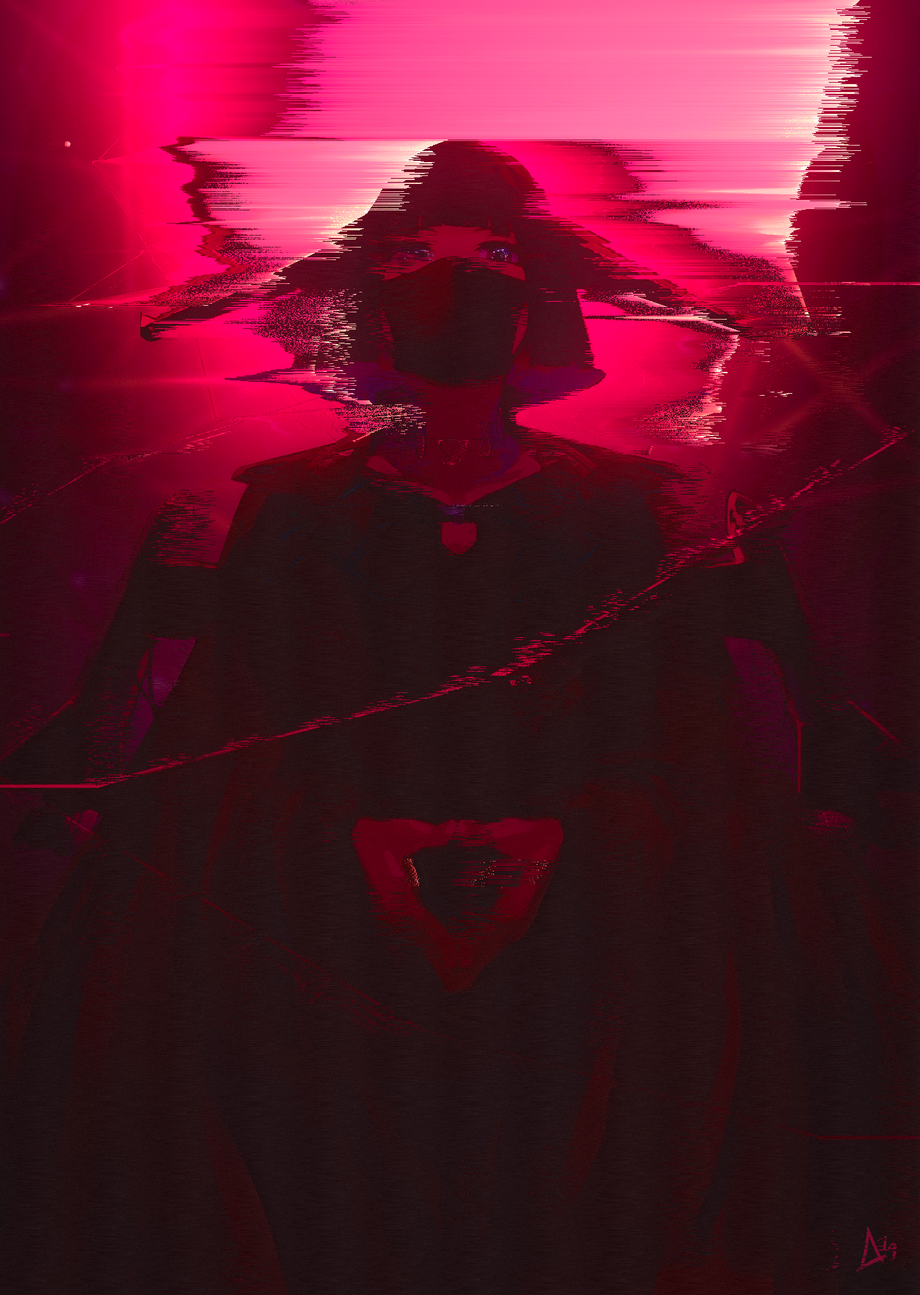
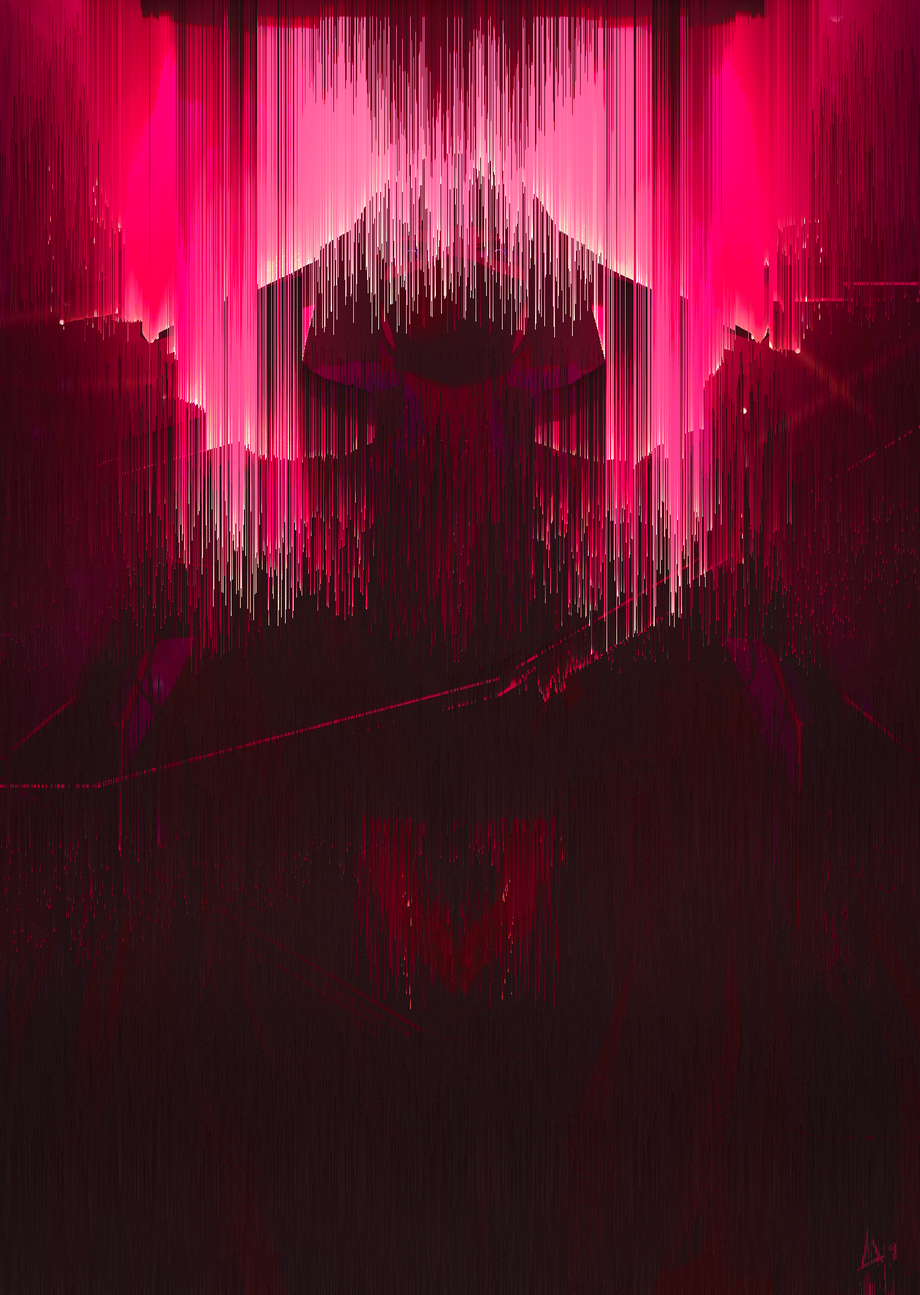
Updated 0018

diff --git a/examples/0018/ex0018.py b/examples/0018/ex0018.py
@@ -13,8 +13,8 @@ import logging
 
 intervalGenerator0 = pyglitch.PixelFunctionIntervalGenerator(
     pyglitch.HuePixelFunction(),
-    lo=0.9,
-    up=0.1
+    lo=0.85,
+    up=0.15
 ) & pyglitch.PixelFunctionIntervalGenerator(
     pyglitch.LightnessPixelFunction(),
     lo=0.4,
@@ -22,15 +22,14 @@ intervalGenerator0 = pyglitch.PixelFunctionIntervalGenerator(
 )
 
 intervalGenerator0 = pyglitch.ExpandingIntervalGenerator(
-    intervalGenerator0, 50) + pyglitch.WaveIntervalGenerator(0.04, percent=True)
+    intervalGenerator0, 50) + pyglitch.WaveIntervalGenerator(0.13, percent=True)
 
-sortingFunction0 = pyglitch.SaturationPixelFunction()
+sortingFunction0 = pyglitch.LightnessPixelFunction()
 
 sortFilter0 = pyglitch.PixelSortFilter(
     intervalGenerator0,
     sortingFunction0,
-    axis=0,
-    reverse=True
+    axis=1
 )
 
 logging.getLogger().setLevel(7)
